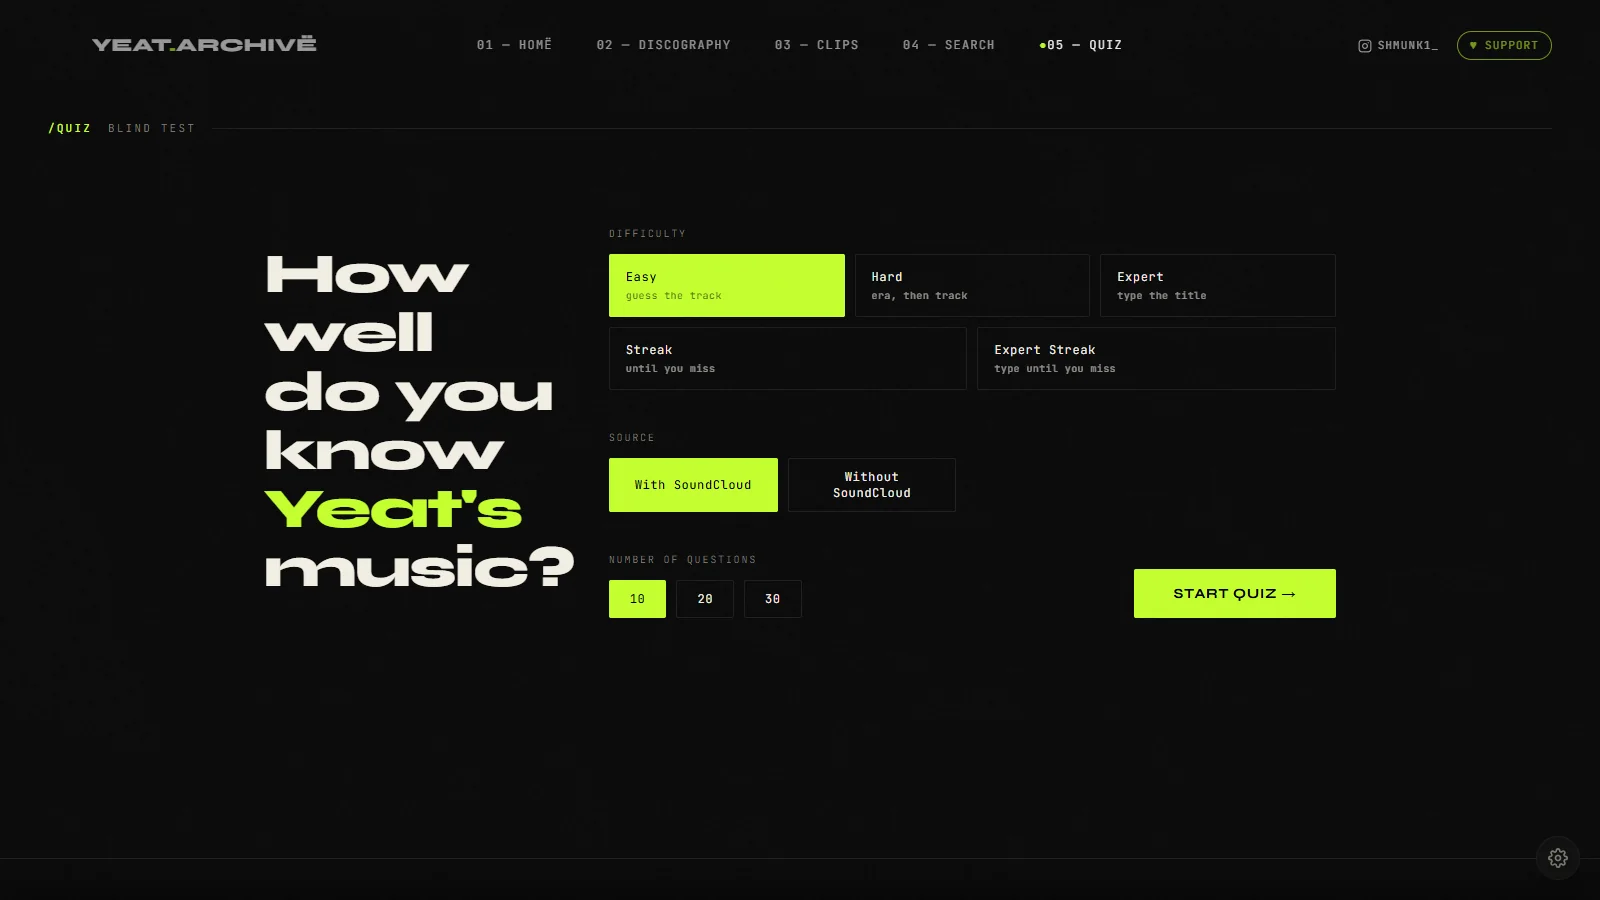
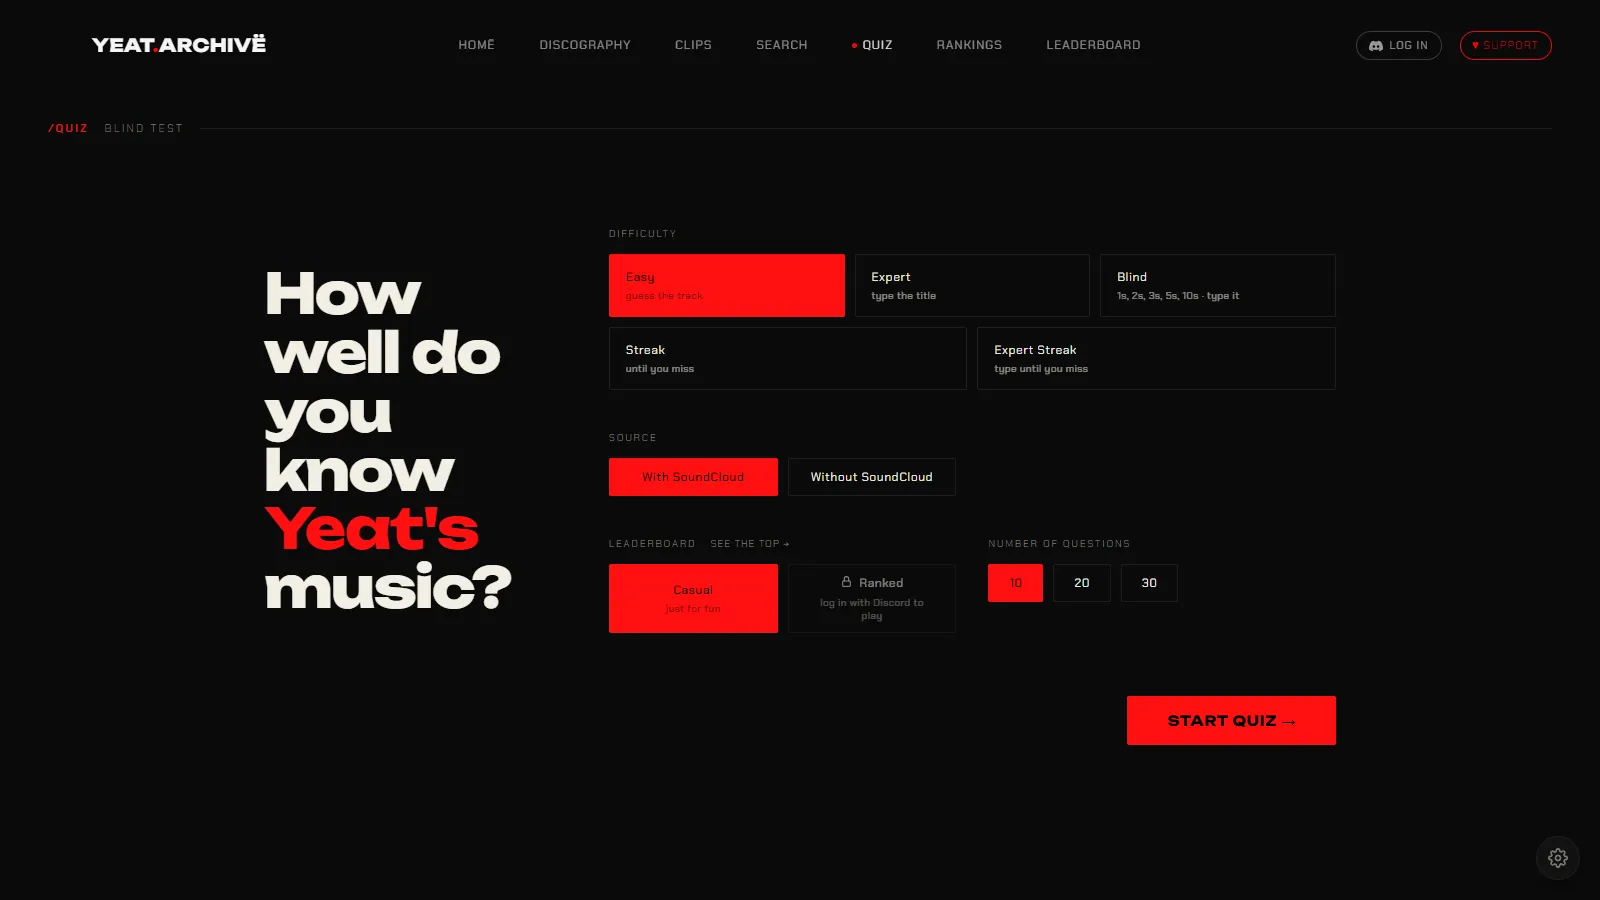
Mise à jour de la page YEAT.ARCHIVE : nouvelles captures et descriptif

diff --git a/yeat-archive.html b/yeat-archive.html
@@ -4,13 +4,13 @@
   <meta charset="UTF-8" />
   <meta name="viewport" content="width=device-width, initial-scale=1.0" />
   <title>YEAT.ARCHIVE — Thomas Eïto</title>
-  <meta name="description" content="YEAT.ARCHIVE — Archive visuelle dédiée au rappeur Yeat : discographie, clips et quiz interactif. Projet web HTML/CSS/JS par Thomas Eïto." />
+  <meta name="description" content="YEAT.ARCHIVE — Archive web dédiée au rappeur Yeat : discographie, clips, recherche, blind test classé, tier lists et notes de la communauté. Projet web par Thomas Eïto." />
   <link rel="canonical" href="https://shmunk1.github.io/portfolio/yeat-archive.html" />
   <meta property="og:type" content="website" />
   <meta property="og:locale" content="fr_FR" />
   <meta property="og:site_name" content="Thomas Eïto — Portfolio" />
   <meta property="og:title" content="YEAT.ARCHIVE — Thomas Eïto" />
-  <meta property="og:description" content="YEAT.ARCHIVE — Archive visuelle dédiée au rappeur Yeat : discographie, clips et quiz interactif. Projet web HTML/CSS/JS par Thomas Eïto." />
+  <meta property="og:description" content="YEAT.ARCHIVE — Archive web dédiée au rappeur Yeat : discographie, clips, recherche, blind test classé, tier lists et notes de la communauté. Projet web par Thomas Eïto." />
   <meta property="og:url" content="https://shmunk1.github.io/portfolio/yeat-archive.html" />
   <meta property="og:image" content="https://shmunk1.github.io/portfolio/images/og.jpg" />
   <meta name="twitter:card" content="summary_large_image" />
@@ -42,9 +42,10 @@
         <span class="tag">UX/UI</span>
         <span class="tag cyan">HTML / CSS</span>
         <span class="tag cyan">JavaScript</span>
+        <span class="tag cyan">Connexion Discord</span>
       </div>
       <p class="project-desc reveal">
-        Archive visuelle dédiée au rappeur Yeat : discographie complète, clips, recherche et blind test interactif. Site fan non officiel, en ligne sur yeatarchive.com.
+        Archive web dédiée au rappeur Yeat : discographie complète, clips, recherche, blind test classé, tier lists et notes de la communauté. Site fan non officiel, en ligne sur yeatarchive.com.
       </p>
       <div class="hero-actions reveal">
         <a href="https://yeatarchive.com" target="_blank" class="btn-primary">Voir le site</a>
@@ -54,9 +55,9 @@
     <!-- En bref -->
     <div class="features-section facts">
       <div class="features-grid">
-        <div class="feat reveal"><h2>Contexte</h2><p>Projet personnel : une archive complète de l'artiste Yeat, réunie sur un seul site.</p></div>
-        <div class="feat reveal"><h2>Mon rôle</h2><p>Conception, développement et intégration web, optimisation de l'expérience utilisateur, tests, mise en ligne et maintenance.</p></div>
-        <div class="feat reveal"><h2>Livrable</h2><p>Un site public avec discographie, pages projet, clips, recherche globale et blind test.</p></div>
+        <div class="feat reveal"><h2>Contexte</h2><p>Projet personnel : une archive complète de l'artiste Yeat, devenue un site communautaire où les fans jouent, notent et classent sa musique.</p></div>
+        <div class="feat reveal"><h2>Mon rôle</h2><p>Conception, design, développement front et back, comptes utilisateurs via Discord, tests, mise en ligne et maintenance.</p></div>
+        <div class="feat reveal"><h2>Livrable</h2><p>Un site public : accueil éditorial, discographie, pages projet, clips, recherche, quiz avec classement, tier lists et lecteur audio intégré.</p></div>
       </div>
     </div>
 
@@ -72,12 +73,23 @@
       <div class="visuel-list">
         <div class="visuel-item reveal">
           <div class="visuel-img-wrap">
-            <img loading="lazy" src="images/yeat.archive/discographie.webp" width="1600" height="900" alt="Capture de la page Discographie" />
+            <img loading="lazy" src="images/yeat.archive/accueil.webp" width="1600" height="900" alt="Capture de la page Accueil" />
           </div>
           <div class="visuel-text">
             <p class="visuel-num">Page 1</p>
+            <h3 class="visuel-name">Accueil</h3>
+            <p class="visuel-desc">Une page d'accueil éditoriale : biographie, chiffres clés, frise chronologique de 2016 à aujourd'hui et dernières sorties.</p>
+          </div>
+        </div>
+
+        <div class="visuel-item reveal">
+          <div class="visuel-img-wrap">
+            <img loading="lazy" src="images/yeat.archive/discographie.webp" width="1600" height="900" alt="Capture de la page Discographie" />
+          </div>
+          <div class="visuel-text">
+            <p class="visuel-num">Page 2</p>
             <h3 class="visuel-name">Discographie</h3>
-            <p class="visuel-desc">Toute la discographie de Yeat, de 2018 à aujourd'hui, classée par type : albums, EPs, mixtapes, singles et featurings.</p>
+            <p class="visuel-desc">Toute la discographie de Yeat, de 2018 à aujourd'hui, filtrable par type : albums, EPs, mixtapes, singles, featurings et exclusivités SoundCloud.</p>
           </div>
         </div>
 
@@ -86,9 +98,9 @@
             <img loading="lazy" src="images/yeat.archive/album.webp" width="1600" height="900" alt="Capture de la page Pages projet" />
           </div>
           <div class="visuel-text">
-            <p class="visuel-num">Page 2</p>
+            <p class="visuel-num">Page 3</p>
             <h3 class="visuel-name">Pages projet</h3>
-            <p class="visuel-desc">Une page pour chaque sortie, avec pochette, tracklist, durée, date de sortie et liens d'écoute vers Spotify et Deezer.</p>
+            <p class="visuel-desc">Une page par sortie, avec sa propre ambiance graphique tirée de la pochette : tracklist, durée, date, liens d'écoute et note moyenne de la communauté pour chaque morceau.</p>
           </div>
         </div>
 
@@ -97,9 +109,9 @@
             <img loading="lazy" src="images/yeat.archive/clips.webp" width="1600" height="900" alt="Capture de la page Clips" />
           </div>
           <div class="visuel-text">
-            <p class="visuel-num">Page 3</p>
+            <p class="visuel-num">Page 4</p>
             <h3 class="visuel-name">Clips</h3>
-            <p class="visuel-desc">Les clips officiels et visualizers triés par date, du plus récent au plus ancien, avec une barre de recherche dédiée.</p>
+            <p class="visuel-desc">Plus de 50 clips officiels et visualizers triés par date, du plus récent au plus ancien, avec une barre de recherche dédiée.</p>
           </div>
         </div>
 
@@ -108,9 +120,9 @@
             <img loading="lazy" src="images/yeat.archive/recherche.webp" width="1600" height="900" alt="Capture de la page Recherche" />
           </div>
           <div class="visuel-text">
-            <p class="visuel-num">Page 4</p>
+            <p class="visuel-num">Page 5</p>
             <h3 class="visuel-name">Recherche</h3>
-            <p class="visuel-desc">Une recherche globale sur tous les morceaux, ères et sorties, avec des filtres par type de contenu.</p>
+            <p class="visuel-desc">Une recherche globale sur plus de 400 morceaux, ères et sorties, avec des filtres par type de contenu.</p>
           </div>
         </div>
 
@@ -119,9 +131,20 @@
             <img loading="lazy" src="images/yeat.archive/quiz.webp" width="1600" height="900" alt="Capture de la page Quiz" />
           </div>
           <div class="visuel-text">
-            <p class="visuel-num">Page 5</p>
+            <p class="visuel-num">Page 6</p>
             <h3 class="visuel-name">Quiz</h3>
-            <p class="visuel-desc">Un blind test avec cinq modes de jeu, de « Easy » à « Expert Streak », et le choix du nombre de questions.</p>
+            <p class="visuel-desc">Un blind test avec cinq modes de jeu (Easy, Expert, Blind, Streak, Expert Streak), avec ou sans exclusivités SoundCloud, en partie libre ou classée pour grimper au leaderboard.</p>
+          </div>
+        </div>
+
+        <div class="visuel-item reveal">
+          <div class="visuel-img-wrap">
+            <img loading="lazy" src="images/yeat.archive/classements.webp" width="1600" height="900" alt="Capture de la page Classements" />
+          </div>
+          <div class="visuel-text">
+            <p class="visuel-num">Page 7</p>
+            <h3 class="visuel-name">Classements</h3>
+            <p class="visuel-desc">Des tier lists communautaires des projets et des singles, à construire soi-même, plus le top des morceaux et des sorties les mieux notés. Connexion via Discord pour sauvegarder ses notes, ses scores et débloquer des badges.</p>
           </div>
         </div>
       </div>

diff --git a/index.html b/index.html
@@ -92,7 +92,7 @@
                 <span class="tag cyan">HTML / CSS / JS</span>
               </div>
               <h3 class="project-name">YEAT.ARCHIVE</h3>
-              <p class="project-desc">Site fan non officiel dédié au rappeur Yeat (discographie, clips, recherche et blind test), en ligne sur yeatarchive.com.</p>
+              <p class="project-desc">Site fan non officiel dédié au rappeur Yeat (discographie, clips, blind test classé, tier lists et notes communautaires), en ligne sur yeatarchive.com.</p>
               <span class="project-link">
                 Voir le projet
                 <svg width="12" height="12" viewBox="0 0 24 24"><path d="M5 12h14M12 5l7 7-7 7" fill="none" stroke="currentColor" stroke-width="2.5" stroke-linecap="round" stroke-linejoin="round"/></svg>
